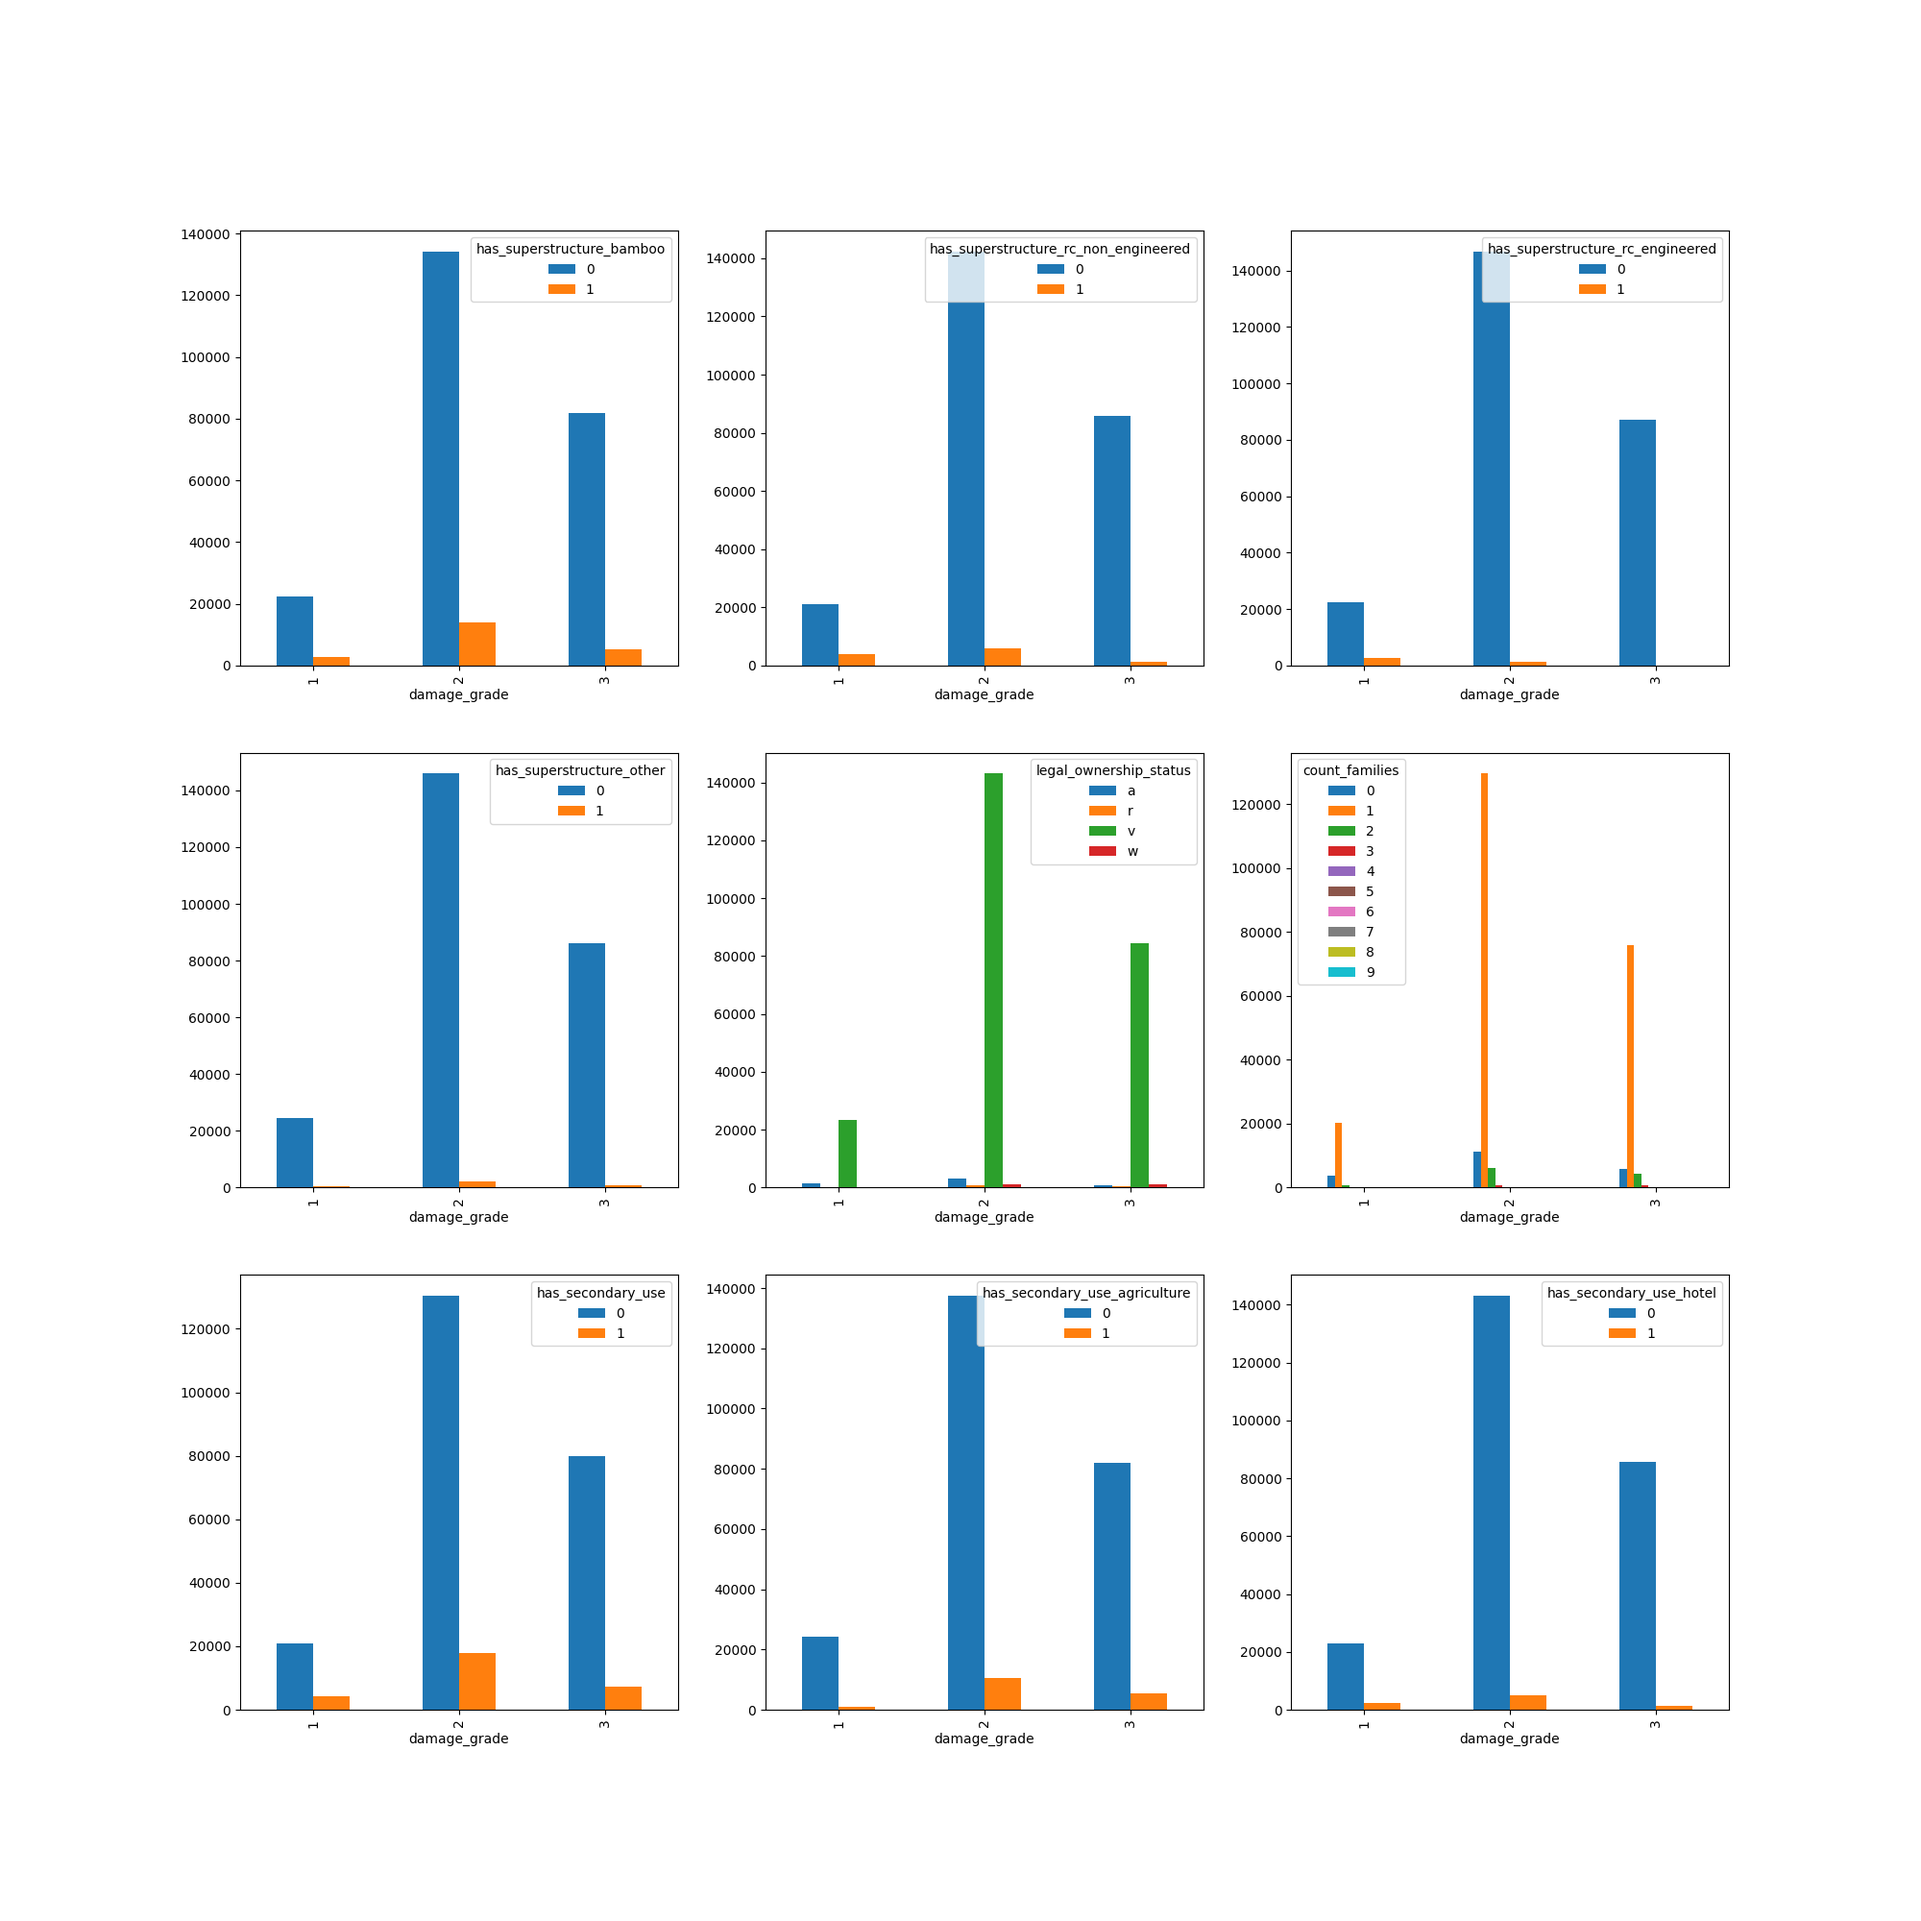
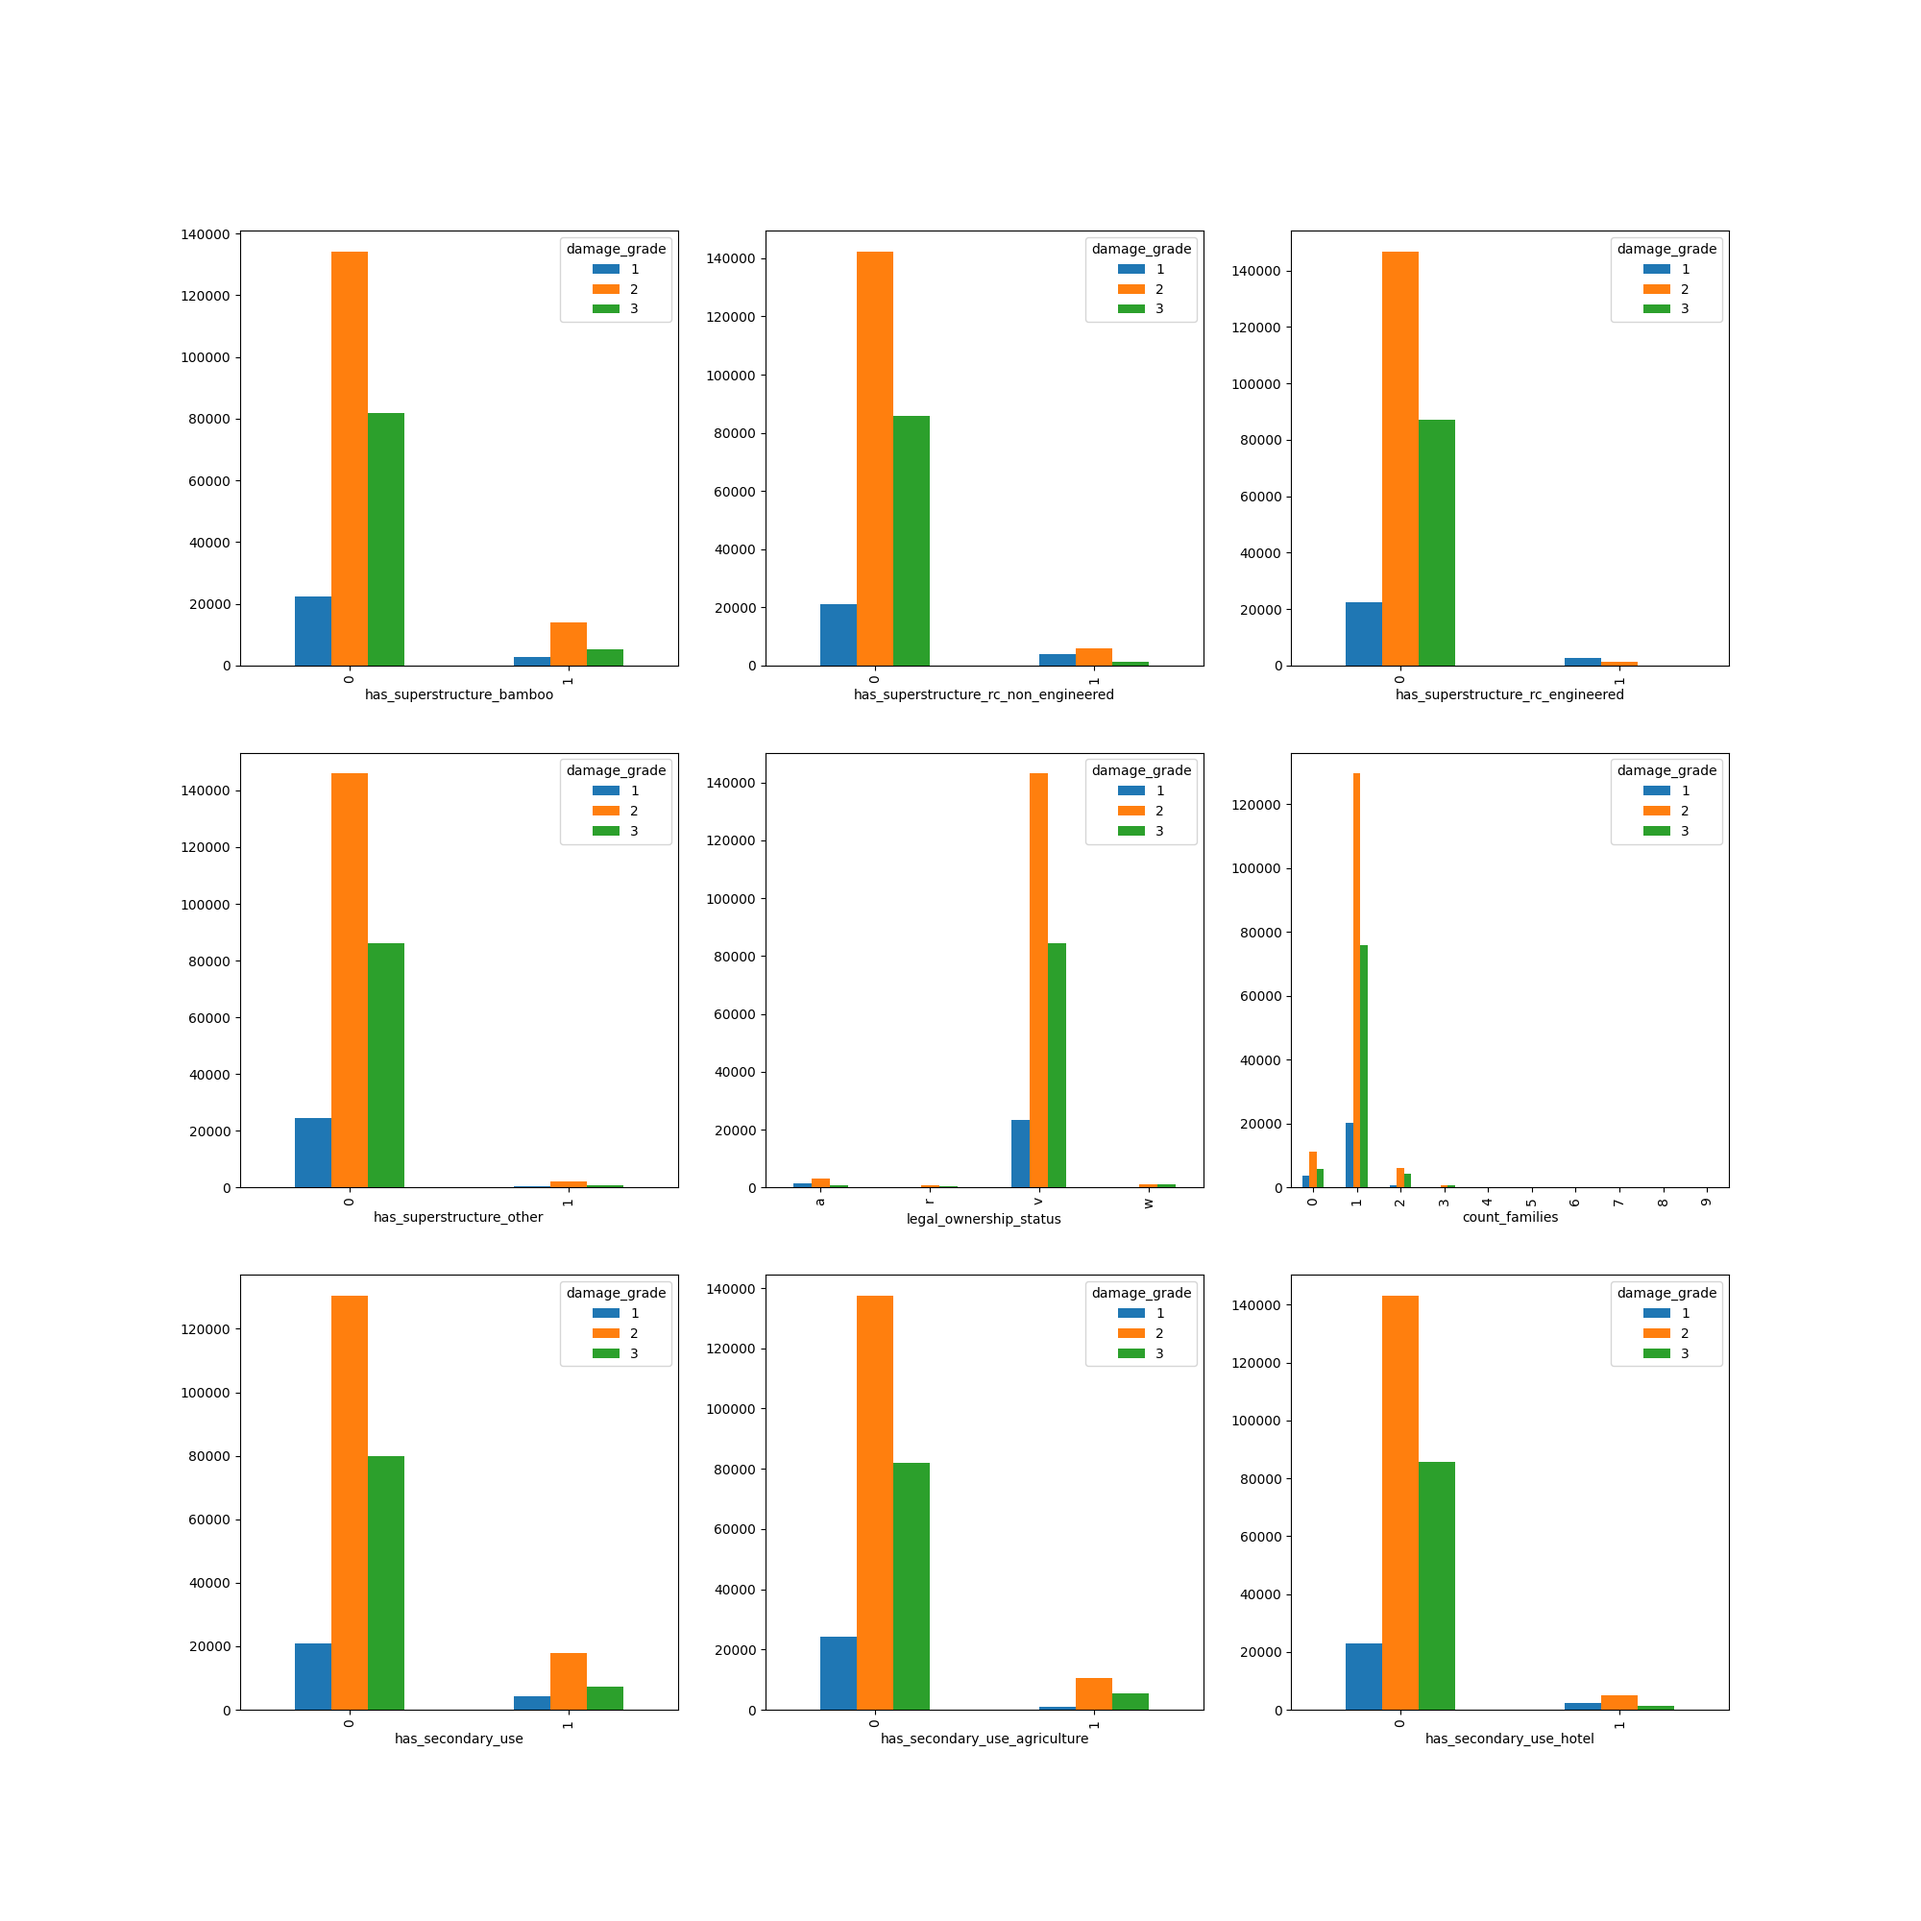
Updated subplots

diff --git a/src/visualization/visualize.py b/src/visualization/visualize.py
@@ -37,45 +37,46 @@ df = df.merge(train_l, how="inner", on="building_id")
 #print(df.head())
 
 # Creating an overview of data via pivot table
-ov_floors= df.pivot_table(index='damage_grade', columns='count_floors_pre_eq', values='building_id',aggfunc=len, fill_value=0)
+
+ov_floors= df.pivot_table(index='count_floors_pre_eq', columns='damage_grade', values='building_id',aggfunc=len, fill_value=0)
 ov_age=df.pivot_table(index='damage_grade', columns='age', values='building_id',aggfunc=len, fill_value=0)
-ov_area=df.pivot_table(index='damage_grade', columns='area_percentage', values='building_id',aggfunc=len, fill_value=0)
-ov_height=df.pivot_table(index='damage_grade', columns='height_percentage', values='building_id',aggfunc=len, fill_value=0)
-ov_land=df.pivot_table(index='damage_grade', columns='land_surface_condition', values='building_id',aggfunc=len, fill_value=0)
-ov_foundation=df.pivot_table(index='damage_grade', columns='foundation_type', values='building_id',aggfunc=len, fill_value=0)
-ov_roof=df.pivot_table(index='damage_grade', columns='roof_type', values='building_id',aggfunc=len, fill_value=0)
-ov_gf=df.pivot_table(index='damage_grade', columns='ground_floor_type', values='building_id',aggfunc=len, fill_value=0)
-ov_of=df.pivot_table(index='damage_grade', columns='other_floor_type', values='building_id',aggfunc=len, fill_value=0)
+ov_area=df.pivot_table(index='area_percentage', columns='damage_grade', values='building_id',aggfunc=len, fill_value=0)
+ov_height=df.pivot_table(index='height_percentage', columns='damage_grade', values='building_id',aggfunc=len, fill_value=0)
+ov_land=df.pivot_table(index='land_surface_condition', columns='damage_grade', values='building_id',aggfunc=len, fill_value=0)
+ov_foundation=df.pivot_table(index='foundation_type', columns='damage_grade', values='building_id',aggfunc=len, fill_value=0)
+ov_roof=df.pivot_table(index='roof_type', columns='damage_grade', values='building_id',aggfunc=len, fill_value=0)
+ov_gf=df.pivot_table(index='ground_floor_type', columns='damage_grade', values='building_id',aggfunc=len, fill_value=0)
+ov_of=df.pivot_table(index='other_floor_type', columns='damage_grade', values='building_id',aggfunc=len, fill_value=0)
 #
-ov_position=df.pivot_table(index='damage_grade', columns='position', values='building_id',aggfunc=len, fill_value=0)
-ov_plan=df.pivot_table(index='damage_grade', columns='plan_configuration', values='building_id',aggfunc=len, fill_value=0)
-ov_adobe=df.pivot_table(index='damage_grade', columns='has_superstructure_adobe_mud', values='building_id',aggfunc=len, fill_value=0)
-ov_mud=df.pivot_table(index='damage_grade', columns='has_superstructure_mud_mortar_stone', values='building_id',aggfunc=len, fill_value=0)
-ov_stone=df.pivot_table(index='damage_grade', columns='has_superstructure_stone_flag', values='building_id',aggfunc=len, fill_value=0)
-ov_cement=df.pivot_table(index='damage_grade', columns='has_superstructure_cement_mortar_stone', values='building_id',aggfunc=len, fill_value=0)
-ov_mmb=df.pivot_table(index='damage_grade', columns='has_superstructure_mud_mortar_brick', values='building_id',aggfunc=len, fill_value=0)
-ov_cmb=df.pivot_table(index='damage_grade', columns='has_superstructure_cement_mortar_brick', values='building_id',aggfunc=len, fill_value=0)
-ov_tim=df.pivot_table(index='damage_grade', columns='has_superstructure_timber', values='building_id',aggfunc=len, fill_value=0)
+ov_position=df.pivot_table(index='position', columns='damage_grade', values='building_id',aggfunc=len, fill_value=0)
+ov_plan=df.pivot_table(index='plan_configuration', columns='damage_grade', values='building_id',aggfunc=len, fill_value=0)
+ov_adobe=df.pivot_table(index='has_superstructure_adobe_mud', columns='damage_grade', values='building_id',aggfunc=len, fill_value=0)
+ov_mud=df.pivot_table(index='has_superstructure_mud_mortar_stone', columns='damage_grade', values='building_id',aggfunc=len, fill_value=0)
+ov_stone=df.pivot_table(index='has_superstructure_stone_flag', columns='damage_grade', values='building_id',aggfunc=len, fill_value=0)
+ov_cement=df.pivot_table(index='has_superstructure_cement_mortar_stone', columns='damage_grade', values='building_id',aggfunc=len, fill_value=0)
+ov_mmb=df.pivot_table(index='has_superstructure_mud_mortar_brick', columns='damage_grade', values='building_id',aggfunc=len, fill_value=0)
+ov_cmb=df.pivot_table(index='has_superstructure_cement_mortar_brick', columns='damage_grade', values='building_id',aggfunc=len, fill_value=0)
+ov_tim=df.pivot_table(index='has_superstructure_timber', columns='damage_grade', values='building_id',aggfunc=len, fill_value=0)
 #
-ov_bam=df.pivot_table(index='damage_grade', columns='has_superstructure_bamboo', values='building_id',aggfunc=len, fill_value=0)
-ov_ne=df.pivot_table(index='damage_grade', columns='has_superstructure_rc_non_engineered', values='building_id',aggfunc=len, fill_value=0)
-ov_eng=df.pivot_table(index='damage_grade', columns='has_superstructure_rc_engineered', values='building_id',aggfunc=len, fill_value=0)
-ov_other=df.pivot_table(index='damage_grade', columns='has_superstructure_other', values='building_id',aggfunc=len, fill_value=0)
-ov_legal=df.pivot_table(index='damage_grade', columns='legal_ownership_status', values='building_id',aggfunc=len, fill_value=0)
-ov_families=df.pivot_table(index='damage_grade', columns='count_families', values='building_id',aggfunc=len, fill_value=0)
-ov_second=df.pivot_table(index='damage_grade', columns='has_secondary_use', values='building_id',aggfunc=len, fill_value=0)
-ov_agri=df.pivot_table(index='damage_grade', columns='has_secondary_use_agriculture', values='building_id',aggfunc=len, fill_value=0)
-ov_hotel=df.pivot_table(index='damage_grade', columns='has_secondary_use_hotel', values='building_id',aggfunc=len, fill_value=0)
+ov_bam=df.pivot_table(index='has_superstructure_bamboo', columns='damage_grade', values='building_id',aggfunc=len, fill_value=0)
+ov_ne=df.pivot_table(index='has_superstructure_rc_non_engineered', columns='damage_grade', values='building_id',aggfunc=len, fill_value=0)
+ov_eng=df.pivot_table(index='has_superstructure_rc_engineered', columns='damage_grade', values='building_id',aggfunc=len, fill_value=0)
+ov_other=df.pivot_table(index='has_superstructure_other', columns='damage_grade', values='building_id',aggfunc=len, fill_value=0)
+ov_legal=df.pivot_table(index='legal_ownership_status', columns='damage_grade', values='building_id',aggfunc=len, fill_value=0)
+ov_families=df.pivot_table(index='count_families', columns='damage_grade', values='building_id',aggfunc=len, fill_value=0)
+ov_second=df.pivot_table(index='has_secondary_use', columns='damage_grade', values='building_id',aggfunc=len, fill_value=0)
+ov_agri=df.pivot_table(index='has_secondary_use_agriculture', columns='damage_grade', values='building_id',aggfunc=len, fill_value=0)
+ov_hotel=df.pivot_table(index='has_secondary_use_hotel', columns='damage_grade', values='building_id',aggfunc=len, fill_value=0)
 #
-ov_rent=df.pivot_table(index='damage_grade', columns='has_secondary_use_rental', values='building_id',aggfunc=len, fill_value=0)
-ov_inst=df.pivot_table(index='damage_grade', columns='has_secondary_use_institution', values='building_id',aggfunc=len, fill_value=0)
-ov_school=df.pivot_table(index='damage_grade', columns='has_secondary_use_school', values='building_id',aggfunc=len, fill_value=0)
-ov_industry=df.pivot_table(index='damage_grade', columns='has_secondary_use_industry', values='building_id',aggfunc=len, fill_value=0)
-ov_health=df.pivot_table(index='damage_grade', columns='has_secondary_use_health_post', values='building_id',aggfunc=len, fill_value=0)
-ov_gov=df.pivot_table(index='damage_grade', columns='has_secondary_use_gov_office', values='building_id',aggfunc=len, fill_value=0)
-ov_pol=df.pivot_table(index='damage_grade', columns='has_secondary_use_use_police', values='building_id',aggfunc=len, fill_value=0)
-ov_su_other=df.pivot_table(index='damage_grade', columns='has_secondary_use_other', values='building_id',aggfunc=len, fill_value=0)
-ov_geo=df.pivot_table(index='damage_grade', columns='geo_level_1_id', values='building_id',aggfunc=len, fill_value=0)
+ov_rent=df.pivot_table(index='has_secondary_use_rental', columns='damage_grade', values='building_id',aggfunc=len, fill_value=0)
+ov_inst=df.pivot_table(index='has_secondary_use_institution', columns='damage_grade', values='building_id',aggfunc=len, fill_value=0)
+ov_school=df.pivot_table(index='has_secondary_use_school', columns='damage_grade', values='building_id',aggfunc=len, fill_value=0)
+ov_industry=df.pivot_table(index='has_secondary_use_industry', columns='damage_grade', values='building_id',aggfunc=len, fill_value=0)
+ov_health=df.pivot_table(index='has_secondary_use_health_post', columns='damage_grade', values='building_id',aggfunc=len, fill_value=0)
+ov_gov=df.pivot_table(index='has_secondary_use_gov_office', columns='damage_grade', values='building_id',aggfunc=len, fill_value=0)
+ov_pol=df.pivot_table(index='has_secondary_use_use_police', columns='damage_grade', values='building_id',aggfunc=len, fill_value=0)
+ov_su_other=df.pivot_table(index='has_secondary_use_other', columns='damage_grade', values='building_id',aggfunc=len, fill_value=0)
+ov_geo=df.pivot_table(index='geo_level_1_id', columns='damage_grade', values='building_id',aggfunc=len, fill_value=0)
 
 
 #Using Subplots
@@ -160,4 +161,4 @@ df = encoder.transform(df)
 #Adding binary modifiers
 binary = ce.binary.BinaryEncoder(cols=['has_superstructure_adobe_mud', 'has_superstructure_mud_mortar_stone','has_superstructure_stone_flag','has_superstructure_cement_mortar_stone', 'has_superstructure_mud_mortar_brick', 'has_superstructure_cement_mortar_brick', 'has_superstructure_timber', 'has_superstructure_bamboo', 'has_superstructure_rc_non_engineered', 'has_superstructure_rc_engineered', 'has_superstructure_other', 'has_secondary_use','has_secondary_use_hotel','has_secondary_use_rental'], return_df=True)
 df = binary.fit_transform(df)
-print(df)
+print(df.head())
